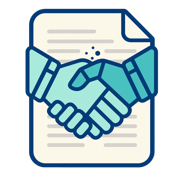
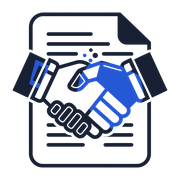
Refine Handshake AI brand lockup

diff --git a/src/components/brand.tsx b/src/components/brand.tsx
@@ -6,10 +6,14 @@ import Link from "next/link";
 export function Brand({ compact = false }: { compact?: boolean }) {
   return (
     <Link href="/" className="brand" aria-label="Handshake AI home">
-      <Image className="brand-mark" src="/handshake-mark.png" width={48} height={48} alt="" priority />
-      {!compact && <span>Handshake AI</span>}
+      <Image className="brand-mark" src="/handshake-mark-two-color.png" width={48} height={48} alt="" priority />
+      {!compact && <span className="brand-wordmark" aria-label="Handshake AI"><span>handshake</span><span>AI</span></span>}
       <style jsx>{`
         :global(.brand-mark) { width: 48px; height: 48px; object-fit: contain; }
+        @font-face { font-family: HandshakeGeist; src: url('/fonts/handshake-geist.woff2') format('woff2'); font-style: normal; font-weight: 100 900; font-display: swap; }
+        :global(.brand-wordmark) { display: inline-flex; align-items: baseline; gap: 5px; font-family: HandshakeGeist, ui-sans-serif, sans-serif; font-size: 21px; font-weight: 560; letter-spacing: -.055em; line-height: 1; text-transform: lowercase; }
+        :global(.brand-wordmark span:last-child) { color: var(--blue); font-size: .88em; font-weight: 700; letter-spacing: -.07em; text-transform: uppercase; }
+        @media (max-width: 390px) { :global(.brand-wordmark) { font-size: 20px; gap: 4px; } }
       `}</style>
     </Link>
   );
